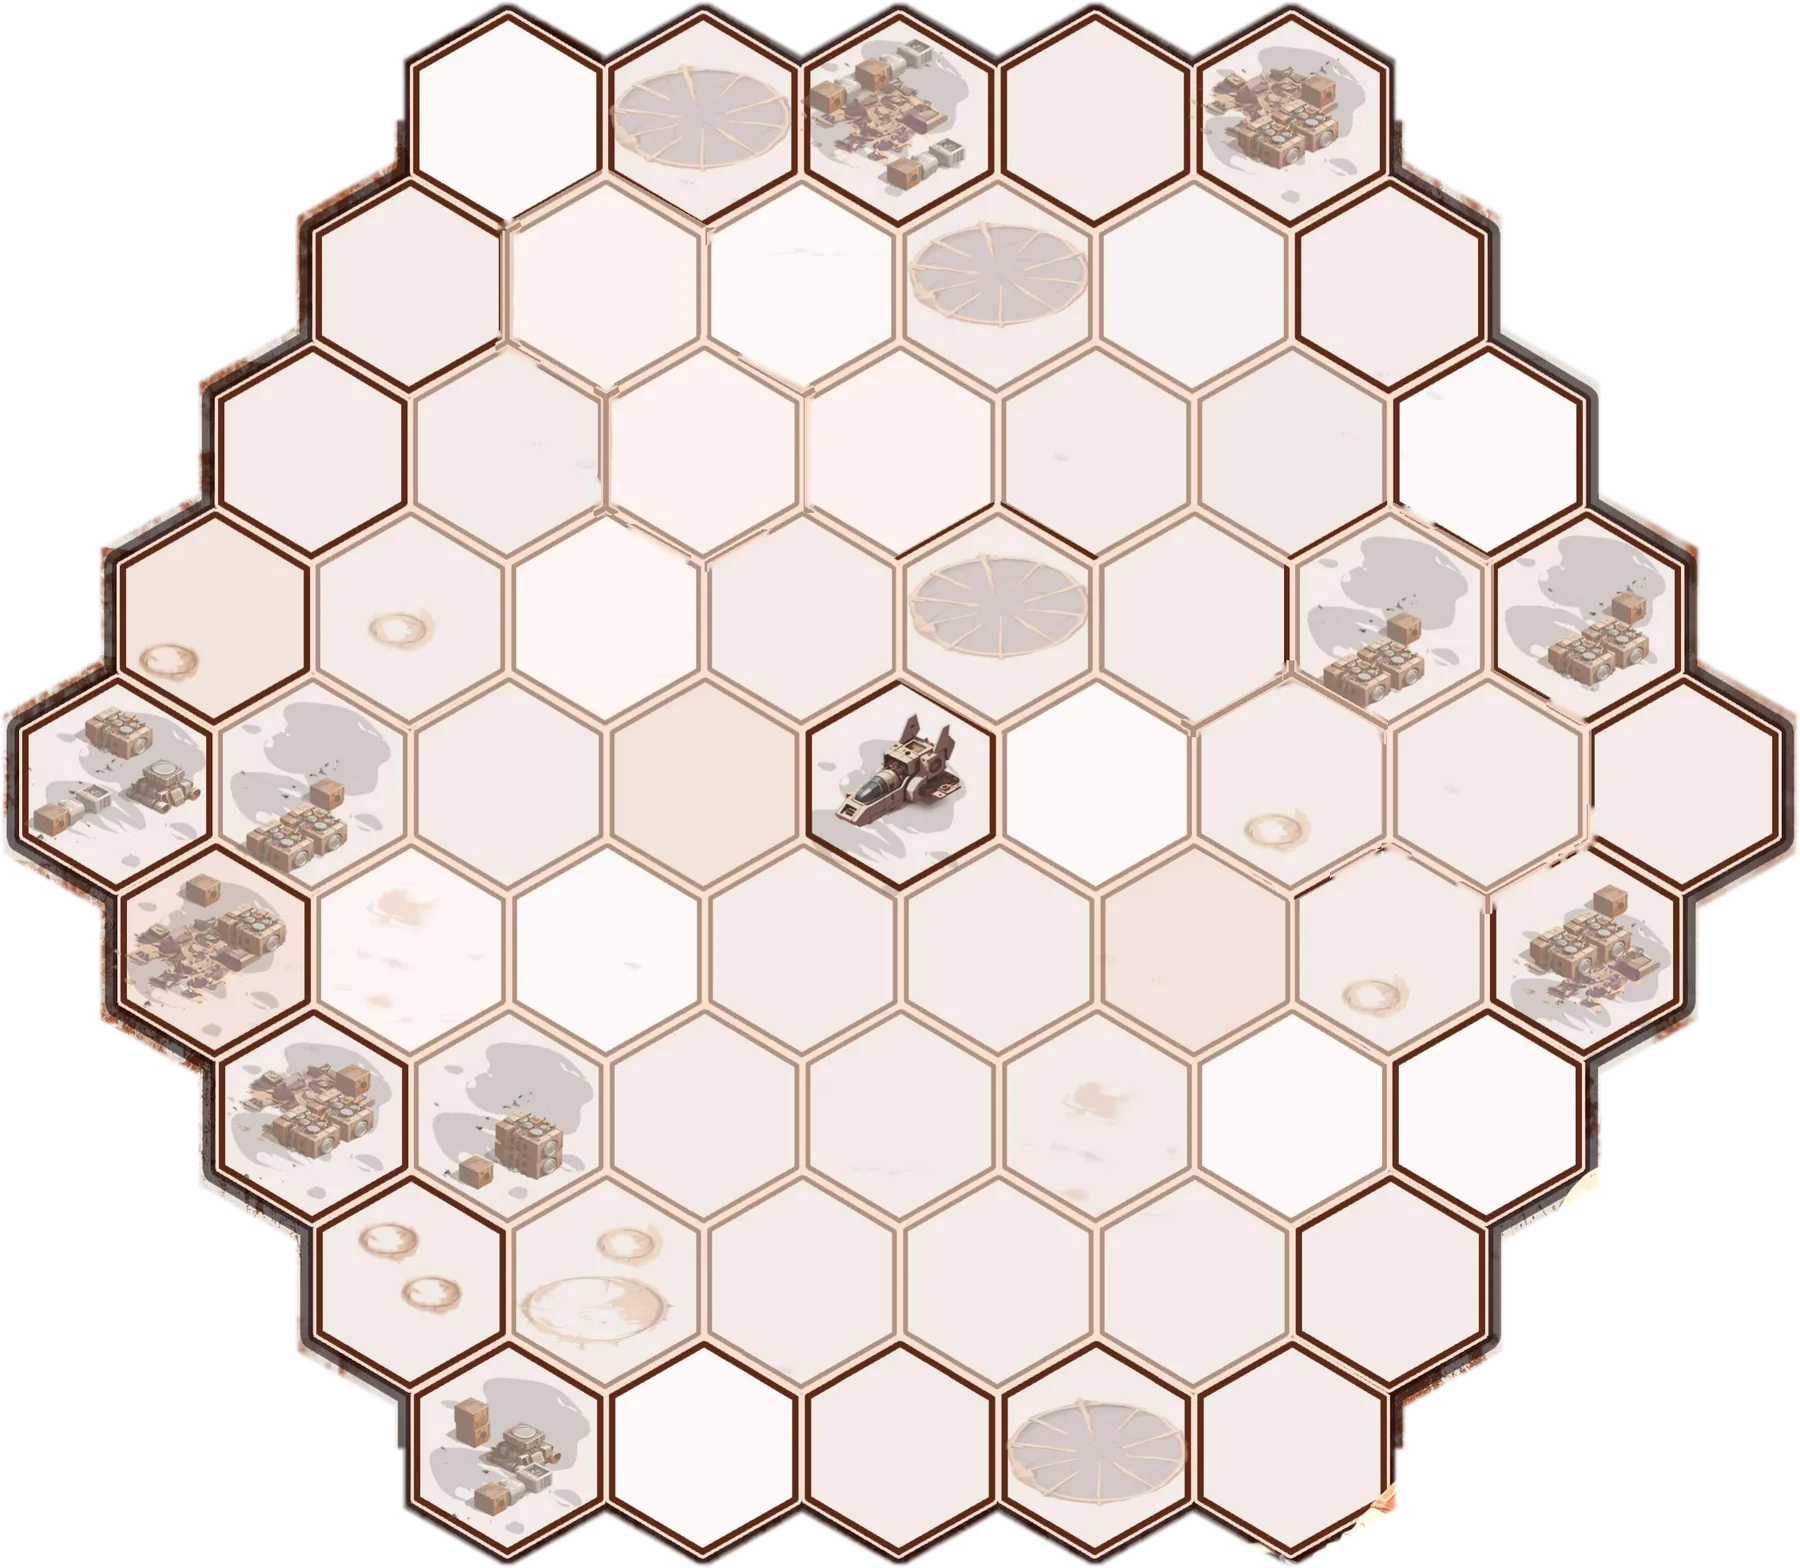
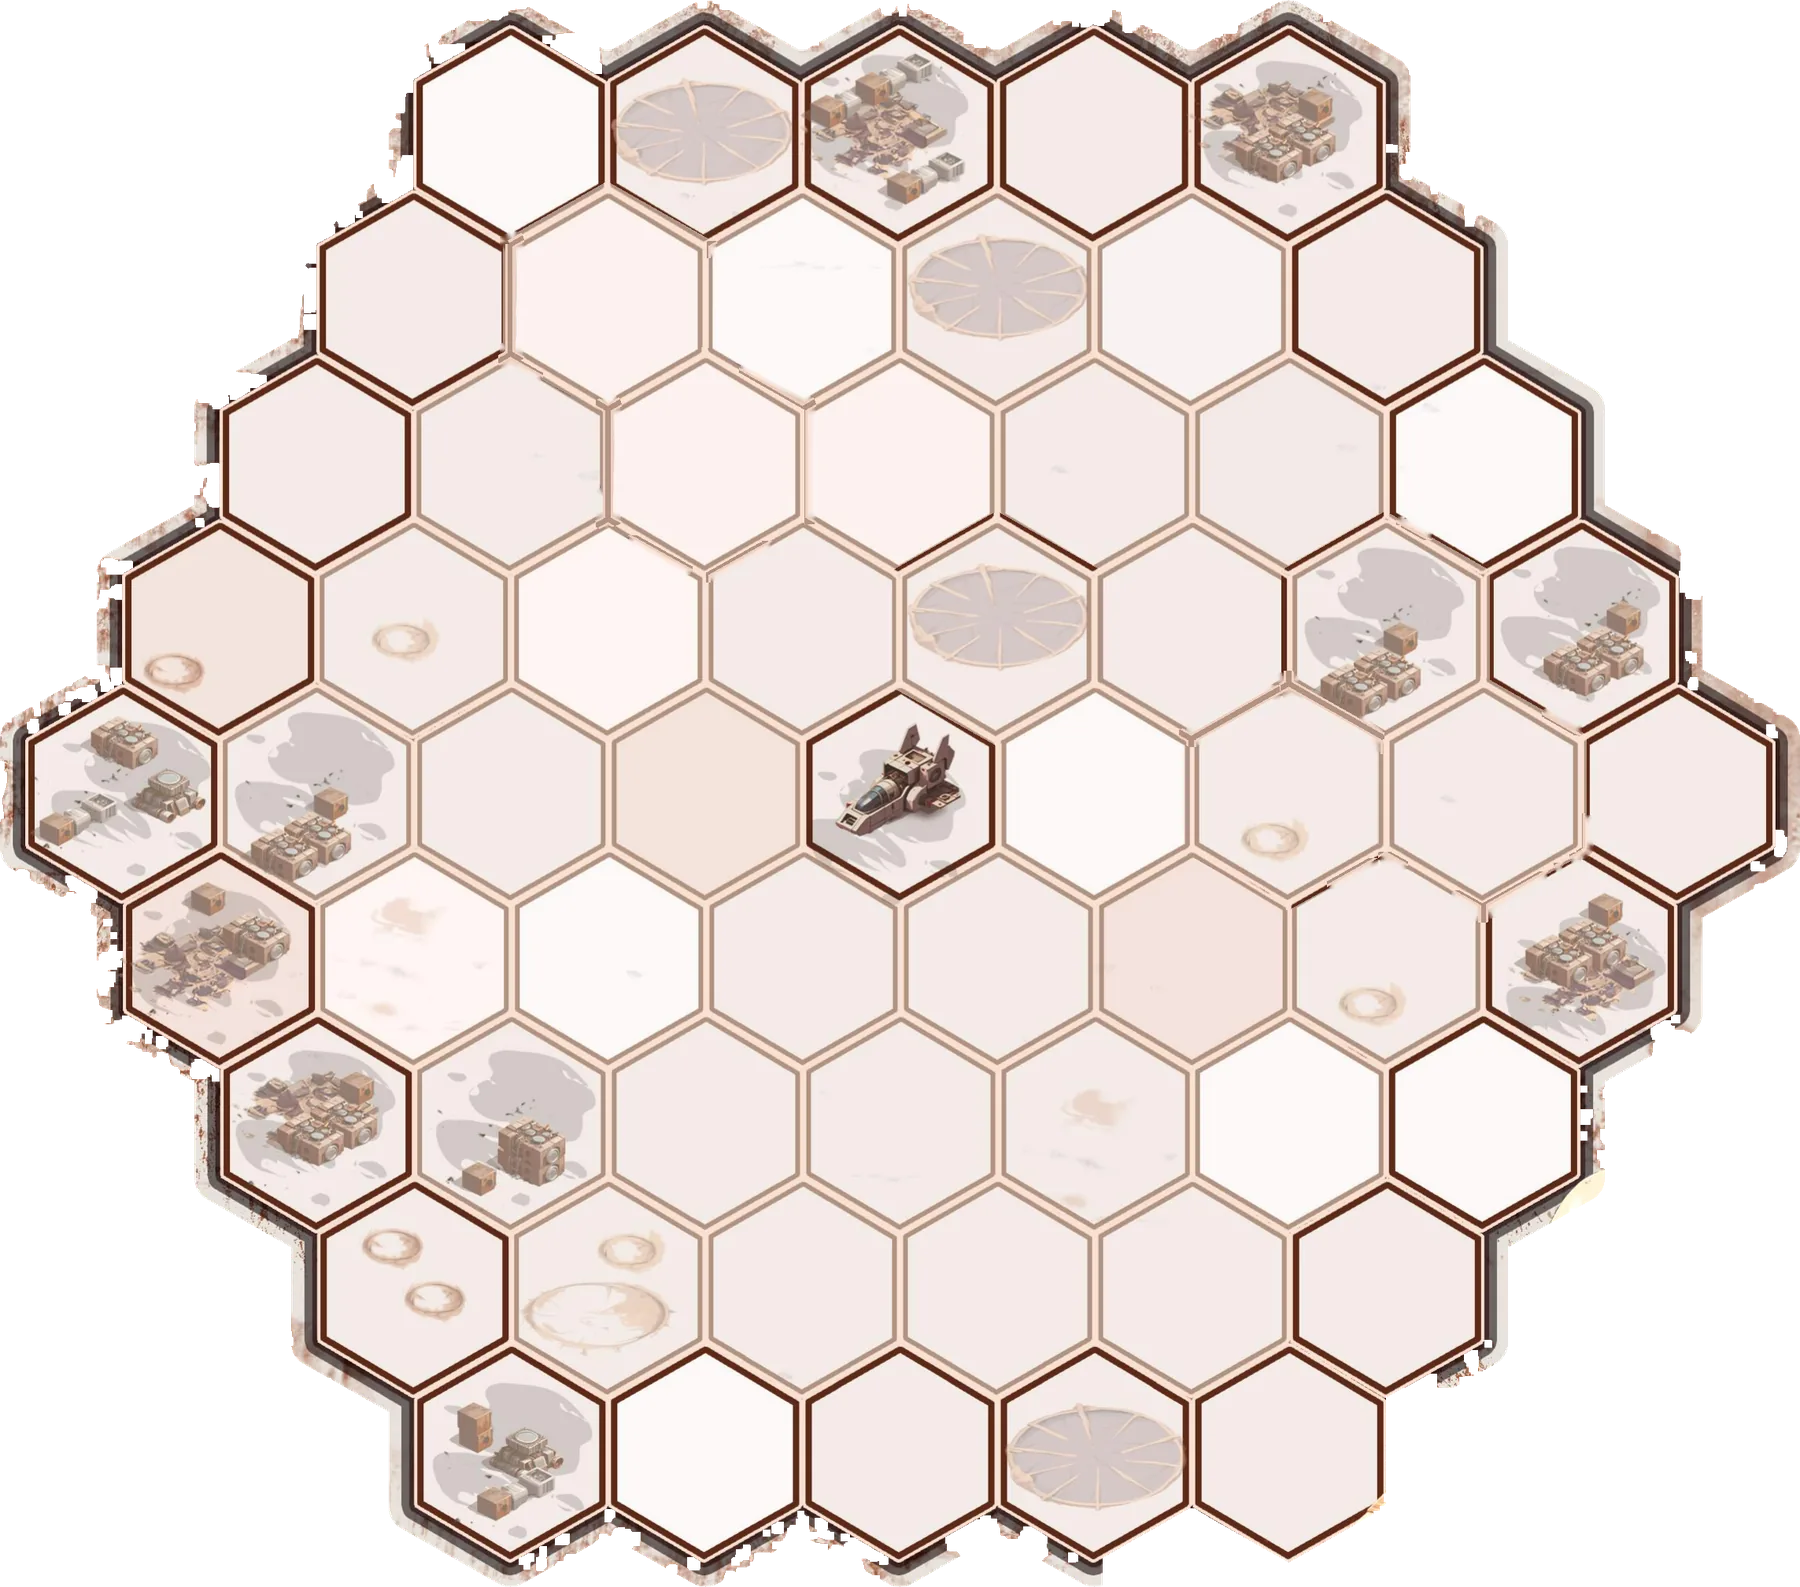
Trace the board's printed edge instead of approximating it
The alpha was the union of the hexes grown by a square MaxFilter, with a
narrower one above the top row and below the bottom row. That gave a
staircase where the sheet prints a smooth metal bevel, a visible step
where the two radii met, and pale slivers of the art beside the rim.

It is now flooded: the page and the Mars backdrop are filled inwards from
a ring 31px outside the hexes, and the rim's dark metal stops the flood,
so what is left is the board as printed. One place needs naming - the
cosmonaut is printed over the rim at the bottom-right - and there only
the hexes are kept, so that corner has no rim rather than fragments of
his glove.

diff --git a/games/recycled/tools/extract_art.py b/games/recycled/tools/extract_art.py
@@ -19,7 +19,7 @@ from pathlib import Path
 
 import cv2
 import numpy as np
-from PIL import Image, ImageDraw, ImageFilter
+from PIL import Image, ImageDraw
 
 OUT = Path(__file__).resolve().parent.parent / 'src' / 'assets' / 'art'
 
@@ -55,6 +55,52 @@ def save(img: Image.Image, name: str, width: int | None = None, quality: int = 8
     path = OUT / f'{name}.webp'
     img.save(path, 'WEBP', quality=quality, method=6)
     print(f'{path.relative_to(OUT.parent.parent.parent)}  {img.width}x{img.height}  {path.stat().st_size // 1024} KB')
+
+
+# How far the printed rim reaches past the outermost hexes, in px at 300 dpi.
+RIM = 31
+# Where another illustration covers the rim. The flood traces the printed outline, but anything
+# light and desaturated beside the rim survives it: on Planet 1 the cosmonaut sits against the
+# bottom-right corner and his white glove and boot are printed over the rim there. Inside these
+# boxes only the hexes themselves are kept, so that corner has no rim rather than fragments of him.
+RIMLESS = [(1500, 2900, 2480, 3508)]
+
+
+def board_alpha(arr: np.ndarray) -> np.ndarray:
+    """The board's printed outline, traced rather than approximated.
+
+    The old alpha was the union of the hexes grown by a square MaxFilter, which gave a staircase
+    where the printed rim is a smooth bevel, and leaked pale slivers of the art beside it. Here the
+    page and the Mars backdrop are flooded inwards from a ring RIM px outside the hexes: the rim's
+    dark metal stops the flood, so what is left is the board as printed, steps and all.
+    """
+    h, w = arr.shape[:2]
+    hexes = Image.new('L', (w, h), 0)
+    d = ImageDraw.Draw(hexes)
+    for r, n in enumerate(ROWS):
+        for c in range(n):
+            d.polygon(hex_points(*hex_center(r, c), HEX_R), fill=255)
+    disc = cv2.getStructuringElement(cv2.MORPH_ELLIPSE, (RIM * 2 + 1, RIM * 2 + 1))
+    outer = cv2.dilate((np.array(hexes) > 0).astype(np.uint8), disc) > 0
+
+    hsv = cv2.cvtColor(arr, cv2.COLOR_RGB2HSV).astype(int)
+    hue, sat, val = hsv[:, :, 0], hsv[:, :, 1], hsv[:, :, 2]
+    mars = ((hue < 25) | (hue > 170)) & (sat > 70)
+    paper = (val > 243) & (sat < 18)
+    passable = ((mars | paper) & outer).astype(np.uint8)
+    flood = np.zeros((h + 2, w + 2), np.uint8)
+    ring = outer & ~cv2.erode(outer.astype(np.uint8), np.ones((3, 3), np.uint8)).astype(bool)
+    for y, x in zip(*np.where(ring)):
+        if passable[y, x] == 1:
+            cv2.floodFill(passable, flood, (int(x), int(y)), 2)
+
+    kept = outer & (passable != 2)
+    inside = np.array(hexes) > 0
+    for x0, y0, x1, y1 in RIMLESS:
+        kept[y0:y1, x0:x1] &= inside[y0:y1, x0:x1]
+    kept = cv2.morphologyEx(kept.astype(np.uint8), cv2.MORPH_CLOSE, np.ones((9, 9), np.uint8), 2)
+    n, lab, stats, _ = cv2.connectedComponentsWithStats(kept, 8)
+    return lab == max(range(1, n), key=lambda i: stats[i, cv2.CC_STAT_AREA])
 
 
 def board(sheet1: Image.Image) -> None:
@@ -107,20 +153,8 @@ def board(sheet1: Image.Image) -> None:
     arr[sel] = np.array(lines)[sel]
     img = Image.fromarray(arr)
 
-    # Keep only the board: union of hexes, grown to include the rusty rim.
-    mask = Image.new('L', img.size, 0)
-    d = ImageDraw.Draw(mask)
-    for r, n in enumerate(ROWS):
-        for c in range(n):
-            d.polygon(hex_points(*hex_center(r, c), HEX_R * 1.0), fill=255)
-    wide = np.array(mask.filter(ImageFilter.MaxFilter(37)))
-    tight = np.array(mask.filter(ImageFilter.MaxFilter(15)))
-    # Above the top row and below the bottom row the sheet has other art (Depot plate,
-    # astronaut) right against the rim, so keep the outline tight there.
-    rows_y = np.arange(wide.shape[0])[:, None]
-    edge = (rows_y < ROW0_Y) | (rows_y > ROW0_Y + 8 * DY)
-    mask = Image.fromarray(np.where(edge, tight, wide).astype(np.uint8)).filter(ImageFilter.GaussianBlur(2))
-    img.putalpha(mask)
+    img.putalpha(Image.fromarray((board_alpha(np.array(img)) * 255).astype(np.uint8)))
+    mask = img.split()[3]
     x0, y0, x1, y1 = mask.getbbox()
     out = img.crop((x0, y0, x1, y1))
     # Where the centre hex (row 4, col 4) is in the saved image, for the game to align it.
